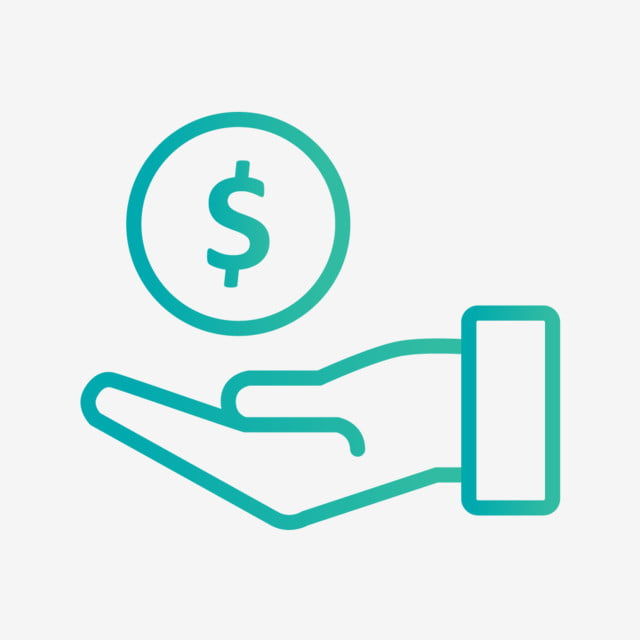
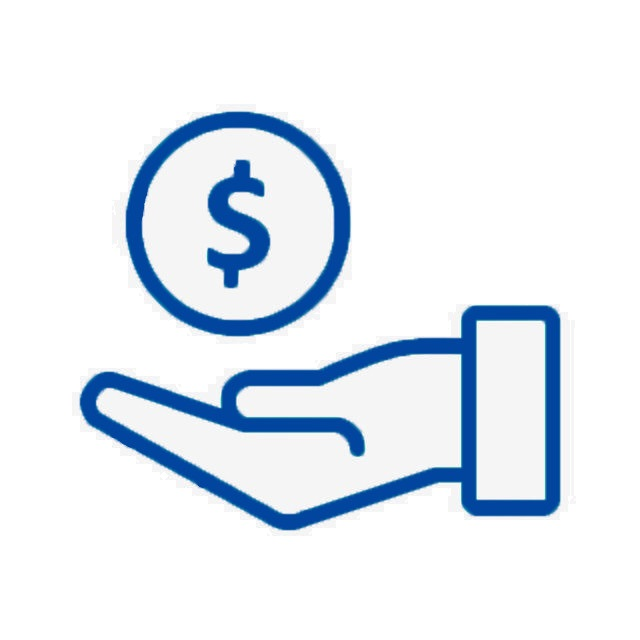
form tien ich

Changed region(s): [[0.125, 0.4688, 0.875, 0.8438], [0.1875, 0.1562, 0.5625, 0.5312], [0.3125, 0.25, 0.4375, 0.4688]]

diff --git a/DOAN_Nhom4/FrmTienIch.Designer.cs b/DOAN_Nhom4/FrmTienIch.Designer.cs
@@ -29,6 +29,8 @@
         private void InitializeComponent()
         {
             this.panel1 = new System.Windows.Forms.Panel();
+            this.lblTenTK = new System.Windows.Forms.Label();
+            this.lblXinchao = new System.Windows.Forms.Label();
             this.pictureBox1 = new System.Windows.Forms.PictureBox();
             this.panel2 = new System.Windows.Forms.Panel();
             this.ptbTienTich = new System.Windows.Forms.PictureBox();
@@ -37,22 +39,26 @@
             this.panel4 = new System.Windows.Forms.Panel();
             this.label1 = new System.Windows.Forms.Label();
             this.panel5 = new System.Windows.Forms.Panel();
+            this.ptbVayTien = new System.Windows.Forms.PictureBox();
             this.lblVayTien = new System.Windows.Forms.Label();
             this.panel6 = new System.Windows.Forms.Panel();
             this.lblNapDienThoai = new System.Windows.Forms.Label();
             this.panel7 = new System.Windows.Forms.Panel();
             this.lblTinDung = new System.Windows.Forms.Label();
             this.panel8 = new System.Windows.Forms.Panel();
-            this.lblTenTK = new System.Windows.Forms.Label();
-            this.lblXinchao = new System.Windows.Forms.Label();
+            this.ptbTinDung = new System.Windows.Forms.PictureBox();
+            this.pictureBox2 = new System.Windows.Forms.PictureBox();
             this.panel1.SuspendLayout();
             ((System.ComponentModel.ISupportInitialize)(this.pictureBox1)).BeginInit();
             this.panel2.SuspendLayout();
             ((System.ComponentModel.ISupportInitialize)(this.ptbTienTich)).BeginInit();
             this.panel4.SuspendLayout();
             this.panel5.SuspendLayout();
+            ((System.ComponentModel.ISupportInitialize)(this.ptbVayTien)).BeginInit();
             this.panel6.SuspendLayout();
             this.panel7.SuspendLayout();
+            ((System.ComponentModel.ISupportInitialize)(this.ptbTinDung)).BeginInit();
+            ((System.ComponentModel.ISupportInitialize)(this.pictureBox2)).BeginInit();
             this.SuspendLayout();
             // 
             // panel1
@@ -65,6 +71,32 @@
             this.panel1.Name = "panel1";
             this.panel1.Size = new System.Drawing.Size(1001, 40);
             this.panel1.TabIndex = 0;
+            // 
+            // lblTenTK
+            // 
+            this.lblTenTK.AutoSize = true;
+            this.lblTenTK.BackColor = System.Drawing.Color.Transparent;
+            this.lblTenTK.Font = new System.Drawing.Font("Segoe UI Semibold", 18F, System.Drawing.FontStyle.Bold, System.Drawing.GraphicsUnit.Point);
+            this.lblTenTK.ForeColor = System.Drawing.Color.FromArgb(((int)(((byte)(2)))), ((int)(((byte)(69)))), ((int)(((byte)(158)))));
+            this.lblTenTK.Location = new System.Drawing.Point(729, 5);
+            this.lblTenTK.Margin = new System.Windows.Forms.Padding(2, 0, 2, 0);
+            this.lblTenTK.Name = "lblTenTK";
+            this.lblTenTK.Size = new System.Drawing.Size(21, 32);
+            this.lblTenTK.TabIndex = 53;
+            this.lblTenTK.Text = " ";
+            // 
+            // lblXinchao
+            // 
+            this.lblXinchao.AutoSize = true;
+            this.lblXinchao.BackColor = System.Drawing.Color.Transparent;
+            this.lblXinchao.Font = new System.Drawing.Font("Segoe UI Semibold", 18F, System.Drawing.FontStyle.Bold, System.Drawing.GraphicsUnit.Point);
+            this.lblXinchao.ForeColor = System.Drawing.Color.FromArgb(((int)(((byte)(2)))), ((int)(((byte)(69)))), ((int)(((byte)(158)))));
+            this.lblXinchao.Location = new System.Drawing.Point(605, 5);
+            this.lblXinchao.Margin = new System.Windows.Forms.Padding(2, 0, 2, 0);
+            this.lblXinchao.Name = "lblXinchao";
+            this.lblXinchao.Size = new System.Drawing.Size(114, 32);
+            this.lblXinchao.TabIndex = 52;
+            this.lblXinchao.Text = "Xin chào,";
             // 
             // pictureBox1
             // 
@@ -136,18 +168,29 @@
             // 
             // panel5
             // 
+            this.panel5.Controls.Add(this.ptbVayTien);
             this.panel5.Controls.Add(this.lblVayTien);
             this.panel5.Location = new System.Drawing.Point(0, 40);
             this.panel5.Name = "panel5";
             this.panel5.Size = new System.Drawing.Size(496, 231);
             this.panel5.TabIndex = 4;
             // 
+            // ptbVayTien
+            // 
+            this.ptbVayTien.Image = global::DOAN_Nhom4.Properties.Resources.vaytien;
+            this.ptbVayTien.Location = new System.Drawing.Point(199, 119);
+            this.ptbVayTien.Name = "ptbVayTien";
+            this.ptbVayTien.Size = new System.Drawing.Size(92, 67);
+            this.ptbVayTien.SizeMode = System.Windows.Forms.PictureBoxSizeMode.StretchImage;
+            this.ptbVayTien.TabIndex = 1;
+            this.ptbVayTien.TabStop = false;
+            // 
             // lblVayTien
             // 
             this.lblVayTien.AutoSize = true;
             this.lblVayTien.Font = new System.Drawing.Font("Segoe UI Semibold", 18F, System.Drawing.FontStyle.Bold, System.Drawing.GraphicsUnit.Point);
             this.lblVayTien.ForeColor = System.Drawing.Color.FromArgb(((int)(((byte)(2)))), ((int)(((byte)(69)))), ((int)(((byte)(158)))));
-            this.lblVayTien.Location = new System.Drawing.Point(174, 71);
+            this.lblVayTien.Location = new System.Drawing.Point(195, 71);
             this.lblVayTien.Name = "lblVayTien";
             this.lblVayTien.Size = new System.Drawing.Size(105, 32);
             this.lblVayTien.TabIndex = 0;
@@ -155,6 +198,7 @@
             // 
             // panel6
             // 
+            this.panel6.Controls.Add(this.pictureBox2);
             this.panel6.Controls.Add(this.lblNapDienThoai);
             this.panel6.Location = new System.Drawing.Point(1, 324);
             this.panel6.Name = "panel6";
@@ -166,14 +210,16 @@
             this.lblNapDienThoai.AutoSize = true;
             this.lblNapDienThoai.Font = new System.Drawing.Font("Segoe UI Semibold", 18F, System.Drawing.FontStyle.Bold, System.Drawing.GraphicsUnit.Point);
             this.lblNapDienThoai.ForeColor = System.Drawing.Color.FromArgb(((int)(((byte)(2)))), ((int)(((byte)(69)))), ((int)(((byte)(158)))));
-            this.lblNapDienThoai.Location = new System.Drawing.Point(123, 75);
+            this.lblNapDienThoai.Location = new System.Drawing.Point(123, 71);
             this.lblNapDienThoai.Name = "lblNapDienThoai";
             this.lblNapDienThoai.Size = new System.Drawing.Size(236, 32);
             this.lblNapDienThoai.TabIndex = 2;
             this.lblNapDienThoai.Text = "Nạp Tiền Điện Thoại";
+            this.lblNapDienThoai.Click += new System.EventHandler(this.lblNapDienThoai_Click);
             // 
             // panel7
             // 
+            this.panel7.Controls.Add(this.ptbTinDung);
             this.panel7.Controls.Add(this.lblTinDung);
             this.panel7.Location = new System.Drawing.Point(506, 40);
             this.panel7.Name = "panel7";
@@ -198,31 +244,25 @@
             this.panel8.Size = new System.Drawing.Size(496, 231);
             this.panel8.TabIndex = 7;
             // 
-            // lblTenTK
+            // ptbTinDung
             // 
-            this.lblTenTK.AutoSize = true;
-            this.lblTenTK.BackColor = System.Drawing.Color.Transparent;
-            this.lblTenTK.Font = new System.Drawing.Font("Segoe UI Semibold", 18F, System.Drawing.FontStyle.Bold, System.Drawing.GraphicsUnit.Point);
-            this.lblTenTK.ForeColor = System.Drawing.Color.FromArgb(((int)(((byte)(2)))), ((int)(((byte)(69)))), ((int)(((byte)(158)))));
-            this.lblTenTK.Location = new System.Drawing.Point(729, 5);
-            this.lblTenTK.Margin = new System.Windows.Forms.Padding(2, 0, 2, 0);
-            this.lblTenTK.Name = "lblTenTK";
-            this.lblTenTK.Size = new System.Drawing.Size(21, 32);
-            this.lblTenTK.TabIndex = 53;
-            this.lblTenTK.Text = " ";
+            this.ptbTinDung.Image = global::DOAN_Nhom4.Properties.Resources.tindungonline;
+            this.ptbTinDung.Location = new System.Drawing.Point(224, 119);
+            this.ptbTinDung.Name = "ptbTinDung";
+            this.ptbTinDung.Size = new System.Drawing.Size(92, 67);
+            this.ptbTinDung.SizeMode = System.Windows.Forms.PictureBoxSizeMode.StretchImage;
+            this.ptbTinDung.TabIndex = 2;
+            this.ptbTinDung.TabStop = false;
             // 
-            // lblXinchao
+            // pictureBox2
             // 
-            this.lblXinchao.AutoSize = true;
-            this.lblXinchao.BackColor = System.Drawing.Color.Transparent;
-            this.lblXinchao.Font = new System.Drawing.Font("Segoe UI Semibold", 18F, System.Drawing.FontStyle.Bold, System.Drawing.GraphicsUnit.Point);
-            this.lblXinchao.ForeColor = System.Drawing.Color.FromArgb(((int)(((byte)(2)))), ((int)(((byte)(69)))), ((int)(((byte)(158)))));
-            this.lblXinchao.Location = new System.Drawing.Point(605, 5);
-            this.lblXinchao.Margin = new System.Windows.Forms.Padding(2, 0, 2, 0);
-            this.lblXinchao.Name = "lblXinchao";
-            this.lblXinchao.Size = new System.Drawing.Size(114, 32);
-            this.lblXinchao.TabIndex = 52;
-            this.lblXinchao.Text = "Xin chào,";
+            this.pictureBox2.Image = global::DOAN_Nhom4.Properties.Resources.naptiendienthoai;
+            this.pictureBox2.Location = new System.Drawing.Point(198, 119);
+            this.pictureBox2.Name = "pictureBox2";
+            this.pictureBox2.Size = new System.Drawing.Size(92, 67);
+            this.pictureBox2.SizeMode = System.Windows.Forms.PictureBoxSizeMode.StretchImage;
+            this.pictureBox2.TabIndex = 3;
+            this.pictureBox2.TabStop = false;
             // 
             // FrmTienIch
             // 
@@ -250,10 +290,13 @@
             this.panel4.PerformLayout();
             this.panel5.ResumeLayout(false);
             this.panel5.PerformLayout();
+            ((System.ComponentModel.ISupportInitialize)(this.ptbVayTien)).EndInit();
             this.panel6.ResumeLayout(false);
             this.panel6.PerformLayout();
             this.panel7.ResumeLayout(false);
             this.panel7.PerformLayout();
+            ((System.ComponentModel.ISupportInitialize)(this.ptbTinDung)).EndInit();
+            ((System.ComponentModel.ISupportInitialize)(this.pictureBox2)).EndInit();
             this.ResumeLayout(false);
 
         }
@@ -277,5 +320,8 @@
         private Label lblTinDung;
         private Label lblTenTK;
         private Label lblXinchao;
+        private PictureBox ptbVayTien;
+        private PictureBox ptbTinDung;
+        private PictureBox pictureBox2;
     }
 }

diff --git a/DOAN_Nhom4/Properties/Resources.Designer.cs b/DOAN_Nhom4/Properties/Resources.Designer.cs
@@ -265,6 +265,16 @@ namespace DOAN_Nhom4.Properties {
         /// <summary>
         ///   Looks up a localized resource of type System.Drawing.Bitmap.
         /// </summary>
+        internal static System.Drawing.Bitmap naptiendienthoai {
+            get {
+                object obj = ResourceManager.GetObject("naptiendienthoai", resourceCulture);
+                return ((System.Drawing.Bitmap)(obj));
+            }
+        }
+        
+        /// <summary>
+        ///   Looks up a localized resource of type System.Drawing.Bitmap.
+        /// </summary>
         internal static System.Drawing.Bitmap Ngan_hang_so_la_gi_1_scaled {
             get {
                 object obj = ResourceManager.GetObject("Ngan-hang-so-la-gi-1-scaled", resourceCulture);
@@ -415,6 +425,16 @@ namespace DOAN_Nhom4.Properties {
         /// <summary>
         ///   Looks up a localized resource of type System.Drawing.Bitmap.
         /// </summary>
+        internal static System.Drawing.Bitmap tindungonline {
+            get {
+                object obj = ResourceManager.GetObject("tindungonline", resourceCulture);
+                return ((System.Drawing.Bitmap)(obj));
+            }
+        }
+        
+        /// <summary>
+        ///   Looks up a localized resource of type System.Drawing.Bitmap.
+        /// </summary>
         internal static System.Drawing.Bitmap toa_nha_landmark_81 {
             get {
                 object obj = ResourceManager.GetObject("toa-nha-landmark-81", resourceCulture);
@@ -448,6 +468,16 @@ namespace DOAN_Nhom4.Properties {
         internal static System.Drawing.Bitmap user3 {
             get {
                 object obj = ResourceManager.GetObject("user3", resourceCulture);
+                return ((System.Drawing.Bitmap)(obj));
+            }
+        }
+        
+        /// <summary>
+        ///   Looks up a localized resource of type System.Drawing.Bitmap.
+        /// </summary>
+        internal static System.Drawing.Bitmap vaytien {
+            get {
+                object obj = ResourceManager.GetObject("vaytien", resourceCulture);
                 return ((System.Drawing.Bitmap)(obj));
             }
         }

diff --git a/DOAN_Nhom4/Program.cs b/DOAN_Nhom4/Program.cs
@@ -11,7 +11,7 @@ namespace DOAN_Nhom4
             // To customize application configuration such as set high DPI settings or default font,
             // see https://aka.ms/applicationconfiguration.
             ApplicationConfiguration.Initialize();
-            Application.Run(new FrmVay());
+            Application.Run(new FrmTienIch());
         }
     }
 }

diff --git a/DOAN_Nhom4/FrmTienIch.cs b/DOAN_Nhom4/FrmTienIch.cs
@@ -15,10 +15,14 @@ namespace DOAN_Nhom4
         public FrmTienIch()
         {
             InitializeComponent();
-            this.ShowInTaskbar = false;
         }
 
         private void pictureBox1_Click(object sender, EventArgs e)
+        {
+
+        }
+
+        private void lblNapDienThoai_Click(object sender, EventArgs e)
         {
 
         }
